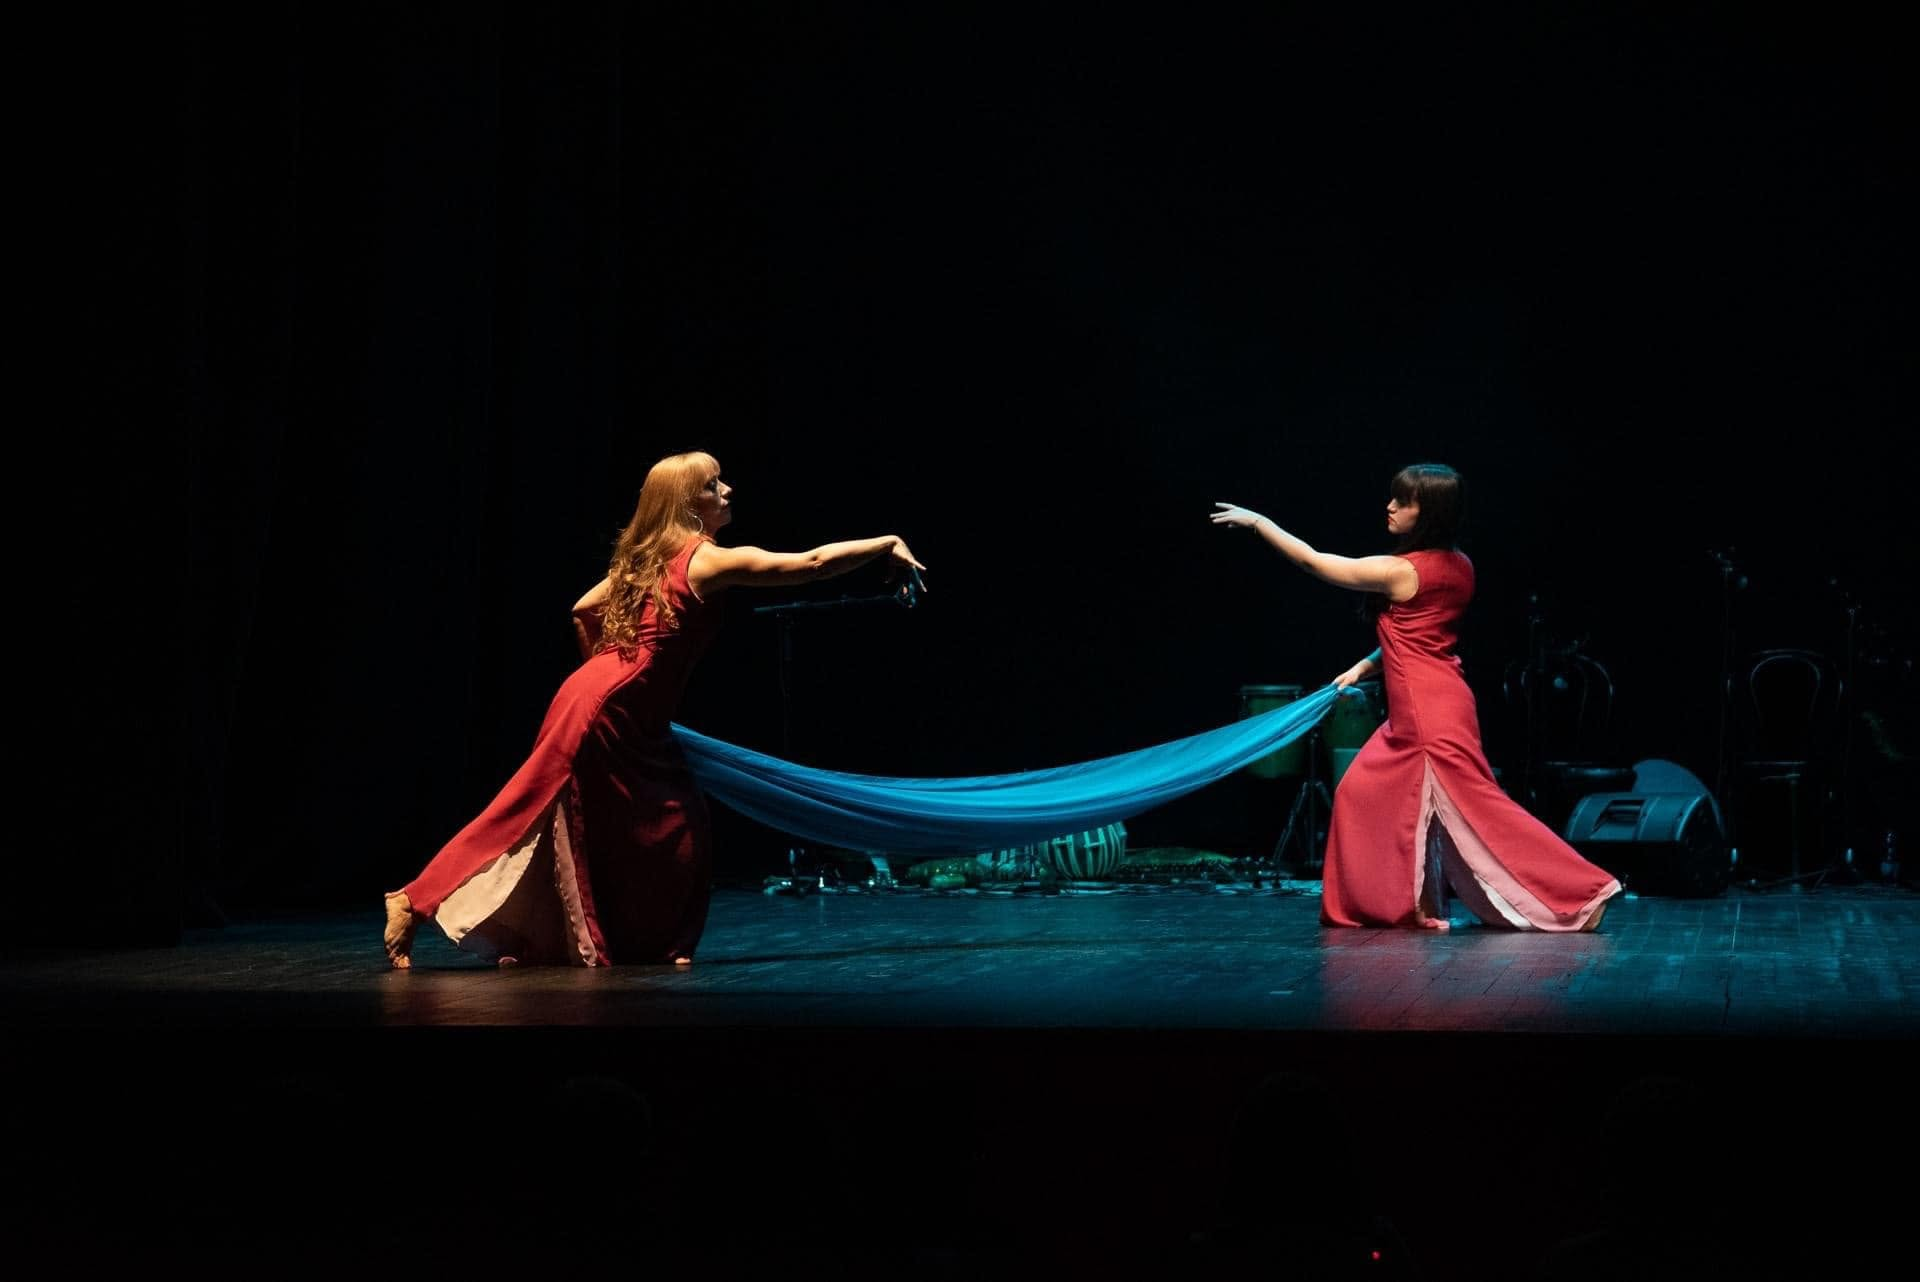
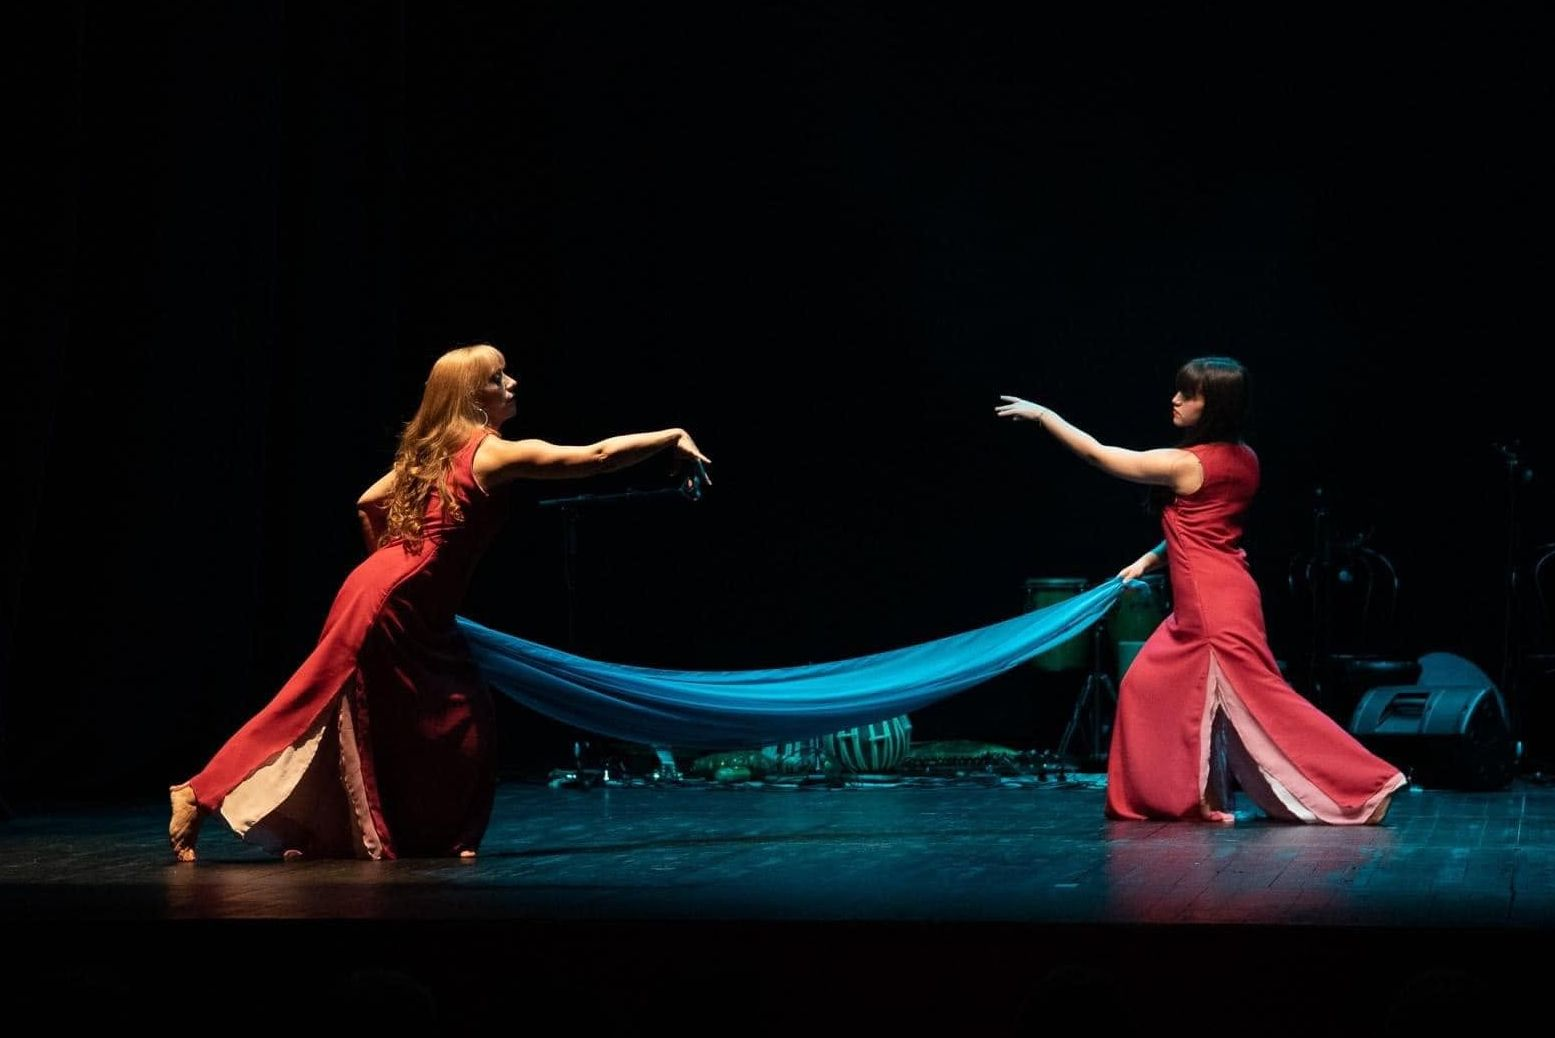
indiv

Changed region(s): [[0.0, 0.3083, 1.0, 0.894], [0.9878, 0.5241, 1.0, 0.5549]]

diff --git a/chi-siamo/la-scuola.html b/chi-siamo/la-scuola.html
@@ -56,7 +56,7 @@ description: Scuola a Bologna e Provincia di Danze Orientali, Danza del Ventre, 
         <h2 class="media-box-title">Le Lezioni Individuali</h2>
         <div class="media-box-content">
             <div class="media-box-image">
-                <img src="/images/corsi/Individuale.JPG" alt="Assolo">
+                <img src="/images/corsi/FUSION.jpg" alt="Fusion">
             </div>
             <div class="media-box-text">
                 Le lezioni individuali (o per piccoli gruppi) sono dedicate a chi desidera un percorso 
